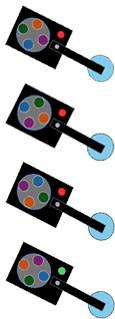
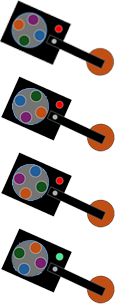
fixed liquid filler visuals

diff --git a/src/abs/src/org/compsys704/Canvas.java b/src/abs/src/org/compsys704/Canvas.java
@@ -78,10 +78,10 @@ public class Canvas extends JPanel {
 			
 			//liquid Filler
 			BufferedImage bottleFillers = ImageIO.read(new File("res/bottle_filler_filling_and_not_filling.png"));
-			L1 = bottleFillers.getSubimage(0, 0, 115, 80);
-			L2 = bottleFillers.getSubimage(0, 80, 115, 80);
-			L3 = bottleFillers.getSubimage(0, 160, 115, 80);
-			L4 = bottleFillers.getSubimage(0, 240, 115, 79);
+			L1 = bottleFillers.getSubimage(0, 0, 115, 77);
+			L2 = bottleFillers.getSubimage(0, 76, 115, 77);
+			L3 = bottleFillers.getSubimage(0, 153, 115, 76);
+			L4 = bottleFillers.getSubimage(0, 229, 115, 77);
 			
 			BufferedImage bottleCappers = ImageIO.read(new File("res/lid_capper_on_and_off.png"));
 			bottleCapperNotDoneDyn = bottleCappers.getSubimage(0, 0, 125, 96);
@@ -165,14 +165,13 @@ public class Canvas extends JPanel {
 		
 		// Liquid Filler
 		if (States.LIQUID_TO_FILL == 0) {
-			g.drawImage(L1, 280, 233, null);
+			g.drawImage(L1, 280, 240, null);
 		} else if (States.LIQUID_TO_FILL == 1) {
-			g.drawImage(L2, 280, 233, null);
+			g.drawImage(L2, 280, 240, null);
 		} else if (States.LIQUID_TO_FILL == 2) {
-			g.drawImage(L3, 280, 233, null);
-		}
-		 else if (States.LIQUID_TO_FILL == 3) {
-				g.drawImage(L4, 280, 233, null);
+			g.drawImage(L3, 280, 240, null);
+		}else if (States.LIQUID_TO_FILL == 3) {
+				g.drawImage(L4, 280, 240, null);
 		}
 		//5. )
 		//Baxter Lid loading ONLY Initial
